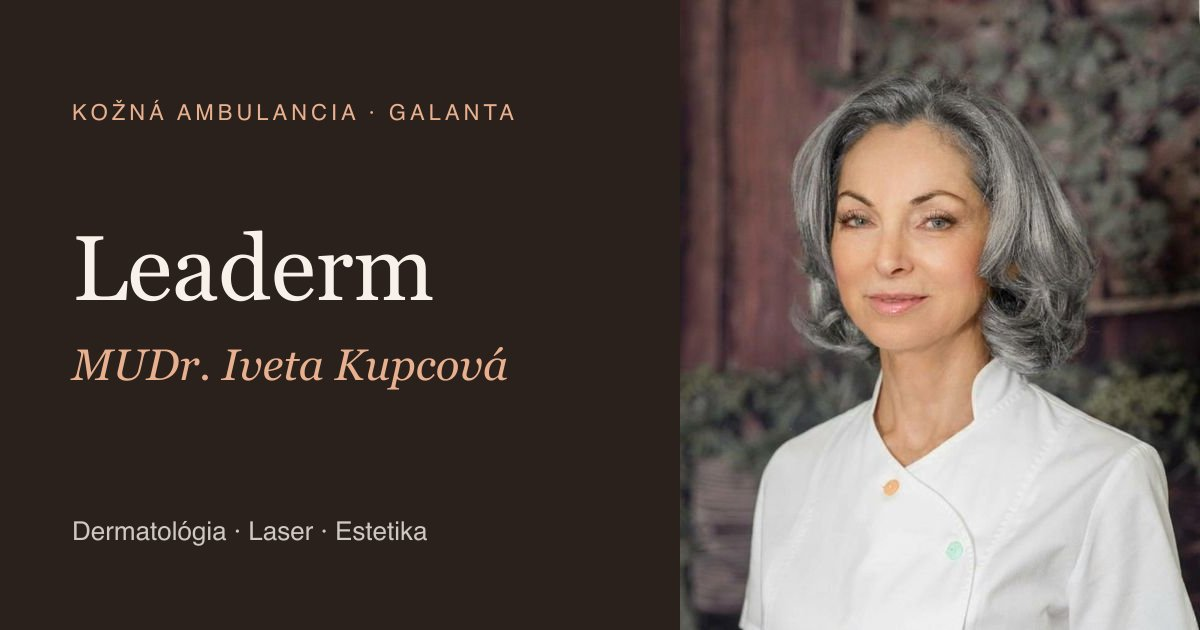
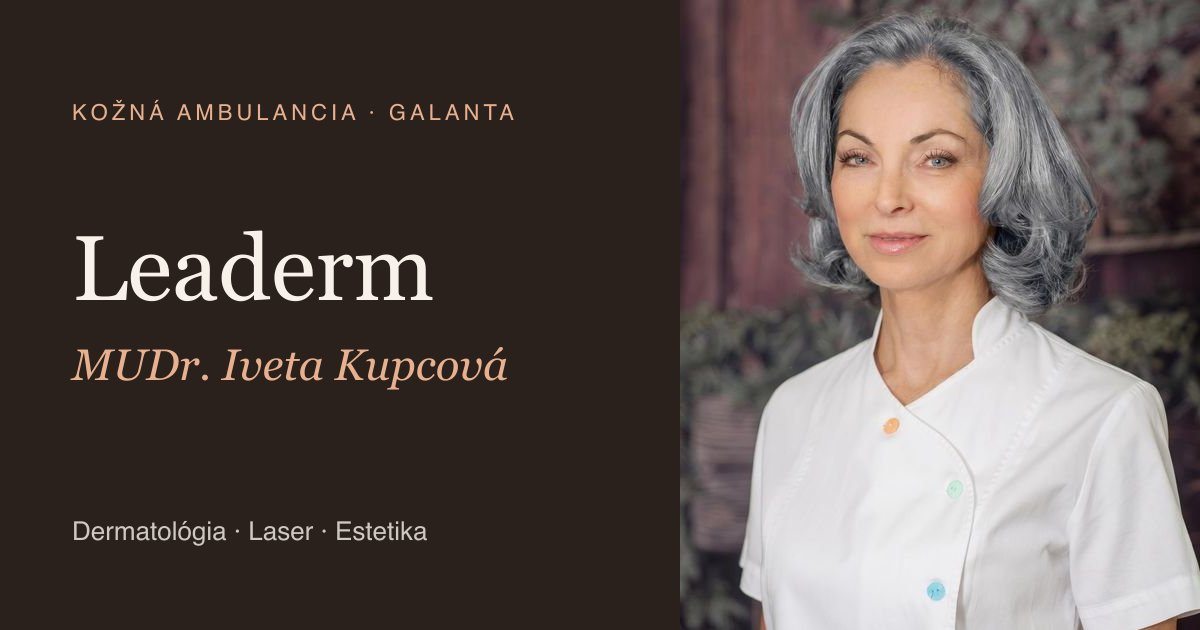
Add photos across site, nurse profile and mobile UI tweaks
- Stock photos (Unsplash) for all missing images, credits in design/assets/stock/CREDITS.json
- Nurse photo and bio on homepage and O nás
- Sharper doctor portrait; hero blur generated as webp
- Hero CTA shows Zavolať on mobile instead of e-mail
- Smaller floating CTA on mobile, hidden while menu is open
- Kontakt hours: no top divider, time kept on one line

Changed region(s): [[0.555, 0.0, 1.0, 1.0], [0.8325, 0.754, 0.8942, 0.8444], [0.5858, 0.3921, 0.6167, 0.4222]]

diff --git a/src/pages/Home/Hero.tsx b/src/pages/Home/Hero.tsx
@@ -1,5 +1,5 @@
 import { useEffect, useRef, useState } from 'react';
-import { ECAKAREN, MARQUEE, mailto } from '../../data/site';
+import { CONTACT, ECAKAREN, MARQUEE, mailto } from '../../data/site';
 import { Img } from '../../components/Img/Img';
 import { pageReady } from '../../hooks/usePageReady';
 import { useReducedMotion } from '../../hooks/useMediaQuery';
@@ -96,7 +96,7 @@ export function Hero() {
       <div className={s.heroStage}>
         <div ref={frame} className={`${s.heroFrame} ${s[`intro${intro}`]}`}>
           <div className={s.heroImgs}>
-            <img src="/img/kupcova-portret-blur.png" alt="" aria-hidden="true" className={s.heroBlur} fetchPriority="high" />
+            <img src="/img/kupcova-portret-blur.webp" alt="" aria-hidden="true" className={s.heroBlur} fetchPriority="high" />
             <Img name="kupcova-portret" alt="MUDr. Iveta Kupcová" width={1200} height={1500} priority sizes="(min-width: 900px) 60vw, 100vw" className={s.heroImg} />
           </div>
           <div className={s.heroShade} />
@@ -120,7 +120,8 @@ export function Hero() {
               <p data-reveal="" data-d="1350" className={s.heroLead}>MUDr. Iveta Kupcová, dermatovenerológ s atestáciou z klinickej onkológie. Liečba kože, vlasov a nechtov pre deti aj dospelých. Estetika a laser.</p>
               <div data-reveal="" data-d="1450" className={s.heroCtas}>
                 <a href={ECAKAREN.profile} target="_blank" rel="noopener" className={s.heroCtaMain}>Prihlásiť sa do poradia →</a>
-                <a href={mailto('Dopyt z webu')} className={s.heroCtaSub}>Napísať e-mail</a>
+                <a href={mailto('Dopyt z webu')} className={`${s.heroCtaSub} ${s.heroCtaMail}`}>Napísať e-mail</a>
+                <a href={`tel:${CONTACT.tel}`} className={`${s.heroCtaSub} ${s.heroCtaTel}`}>Zavolať</a>
               </div>
               <div data-reveal="" data-d="1550" className={s.heroTags}>
                 <span>Dôvera · VšZP · Union</span><span>Deti aj dospelí</span><span>Do poradia už z domu</span>

diff --git a/src/pages/ONas/ONas.tsx b/src/pages/ONas/ONas.tsx
@@ -78,13 +78,13 @@ export default function ONas() {
 
       <section className={s.nurse}>
         <div className={s.nurseInner}>
-          <div className={s.nursePhoto} data-reveal="" aria-hidden="true">
-            <span className={s.initials}>PF</span>
+          <div className={s.nursePhoto} data-reveal="">
+            <Img name="sestra" alt="Bc. Patrícia Francisciová" width={1024} height={1536} sizes="(min-width: 900px) 40vw, 100vw" className={`${s.cover} ${s.nurseImg}`} />
           </div>
           <div className={s.nurseText}>
-            <div className={s.eyebrow} data-reveal="">Sestra</div>
+            <div className={s.eyebrow} data-reveal="">Zdravotná sestra</div>
             <h2 className={s.h2Big} data-reveal="">Bc. Patrícia <em>Francisciová</em></h2>
-            <p className={s.nurseP} data-reveal="">Sestra dermatovenerologickej ambulancie LEADERM.</p>
+            <p className={s.nurseP} data-reveal="">Vyštudovala ošetrovateľstvo na Univerzite Konštantína Filozofa v Nitre a skúsenosti zbierala v Nemocnici sv. Lukáša v Galante, na úrazovej chirurgii, ortopédii aj covidovom oddelení, ako aj v stomatologickej a ortopedickej ambulancii. Dnes je jej hlavným pôsobiskom naša dermatologická ambulancia a absolvovala aj kurzy kineziologického tejpovania a aplikácie biodermálnych nití.</p>
           </div>
         </div>
       </section>

diff --git a/scripts/images.ts b/scripts/images.ts
@@ -1,5 +1,5 @@
 import sharp from 'sharp';
-import { copyFileSync, existsSync, mkdirSync, readdirSync } from 'node:fs';
+import { existsSync, mkdirSync, readdirSync } from 'node:fs';
 import { basename, extname, resolve } from 'node:path';
 
 const root = resolve(import.meta.dirname, '..');
@@ -12,14 +12,13 @@ const sources = [resolve(root, 'design/assets'), resolve(root, 'design/assets/st
 
 for (const src of sources) {
   const name = basename(src, extname(src));
-  if (name.endsWith('-blur')) {
-    copyFileSync(src, resolve(out, basename(src)));
-    continue;
-  }
   for (const w of [800, 1600]) {
     const img = sharp(src).rotate().resize({ width: w, withoutEnlargement: true });
     await img.clone().webp({ quality: 78 }).toFile(resolve(out, `${name}-${w}.webp`));
     await img.clone().jpeg({ quality: 80, mozjpeg: true }).toFile(resolve(out, `${name}-${w}.jpg`));
+  }
+  if (name === 'kupcova-portret') {
+    await sharp(src).rotate().resize({ width: 200 }).webp({ quality: 60 }).toFile(resolve(out, `${name}-blur.webp`));
   }
   const meta = await sharp(src).metadata();
   console.log(name, `${meta.width}x${meta.height}`);

diff --git a/src/pages/Home/Home.tsx b/src/pages/Home/Home.tsx
@@ -190,10 +190,13 @@ export default function Home() {
                 ))}
               </ul>
               <div className={s.nurse}>
-                <div className={s.nurseAvatar} aria-hidden="true">PF</div>
+                <div className={s.nurseAvatar}>
+                  <Img name="sestra" alt="Bc. Patrícia Francisciová" width={1024} height={1536} sizes="88px" className={`${s.cover} ${s.nurseImg}`} />
+                </div>
                 <div>
-                  <div className={s.nurseRole}>Sestra</div>
+                  <div className={s.nurseRole}>Zdravotná sestra</div>
                   <div className={s.nurseName}>Bc. Patrícia Francisciová</div>
+                  <p className={s.nurseBio}>Ošetrovateľstvo na UKF v Nitre, skúsenosti z Nemocnice sv. Lukáša v Galante. Kurzy kineziologického tejpovania a biodermálnych nití.</p>
                 </div>
               </div>
             </div>

diff --git a/src/pages/Home/Home.module.less b/src/pages/Home/Home.module.less
@@ -133,6 +133,8 @@
   backdrop-filter: blur(10px);
   &:hover { background: @bg; color: @ink; border-color: @bg; }
 }
+.heroCtaMail { display: none; @media @{desk} { display: inline-block; } }
+.heroCtaTel { @media @{desk} { display: none; } }
 .heroTags {
   display: flex;
   gap: 8px 18px;
@@ -502,9 +504,12 @@
   font-family: @serif;
   font-size: 34px;
   letter-spacing: .02em;
+  overflow: hidden;
 }
+.nurseImg { object-position: 50% 15%; transform: scale(1.6); transform-origin: 50% 18%; }
 .nurseRole { font-size: 12px; letter-spacing: .16em; text-transform: uppercase; color: @muted; }
 .nurseName { font-family: @serif; font-size: 26px; margin-top: 4px; }
+.nurseBio { margin: 8px 0 0; font-size: 14px; line-height: 1.5; color: @muted; text-wrap: pretty; }
 
 // 07 Pricing
 .pricing { padding: clamp(72px, 10vw, 128px) 20px; }

diff --git a/src/components/Nav/Nav.tsx b/src/components/Nav/Nav.tsx
@@ -36,6 +36,7 @@ export function Nav({ active, fixed }: { active: RouteKey; fixed?: boolean }) {
   useEffect(() => {
     if (!menu) return;
     document.body.style.overflow = 'hidden';
+    document.body.dataset.menu = '';
     menuRef.current?.querySelector<HTMLElement>('a')?.focus();
     const onKey = (e: KeyboardEvent) => {
       if (e.key === 'Escape') {
@@ -46,6 +47,7 @@ export function Nav({ active, fixed }: { active: RouteKey; fixed?: boolean }) {
     addEventListener('keydown', onKey);
     return () => {
       document.body.style.overflow = '';
+      delete document.body.dataset.menu;
       removeEventListener('keydown', onKey);
     };
   }, [menu]);

diff --git a/src/pages/Kontakt/Kontakt.module.less b/src/pages/Kontakt/Kontakt.module.less
@@ -202,7 +202,6 @@
 .hoursBox {
   flex: 2 1 520px;
   min-width: 0;
-  border-top: 1px solid @ink;
 }
 
 .hours { .reset(); }
@@ -238,7 +237,9 @@
 
 .time {
   .serif();
-  font-size: clamp(26px, 3vw, 38px);
+  flex: none;
+  white-space: nowrap;
+  font-size: clamp(24px, 3vw, 38px);
   line-height: 1;
   font-variant-numeric: tabular-nums;
 }
@@ -255,6 +256,7 @@
   font-weight: 600;
   letter-spacing: .1em;
   text-transform: uppercase;
+  white-space: nowrap;
   box-shadow: 0 1px 0 rgba(142, 70, 48, .12);
 }
 

diff --git a/src/components/FloatingCta/FloatingCta.module.less b/src/components/FloatingCta/FloatingCta.module.less
@@ -15,13 +15,16 @@
   padding: 6px;
   border-radius: 999px;
   box-shadow: 0 16px 40px rgba(42, 33, 28, .28);
+  @media @{sm} { gap: 2px; padding: 4px; bottom: calc(14px + var(--ann-bar-h, 0px)); }
 }
 .on { transform: translate(-50%, 0); }
+:global(body[data-menu]) .bar { transform: translate(-50%, calc(100% + 24px + var(--ann-bar-h, 0px))); }
 
 .main, .sub {
   .pill();
   padding: 12px 18px;
   font-size: 14px;
+  @media @{sm} { padding: 9px 14px; font-size: 13px; }
 }
 .main {
   background: @terra;

diff --git a/src/pages/ONas/ONas.module.less b/src/pages/ONas/ONas.module.less
@@ -191,13 +191,7 @@
   justify-content: center;
 }
 
-.initials {
-  .serif();
-  font-size: clamp(96px, 14vw, 200px);
-  line-height: 1;
-  letter-spacing: -.03em;
-  color: @terra;
-}
+.nurseImg { object-position: 50% 20%; }
 
 .nurseText {
   flex: 1 1 440px;
